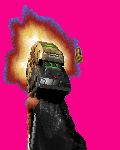
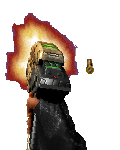
Gr12 FSE Jan 14 Both pistol and shotgun working. Abandoing reloading idea. Swapping gun works. Need to add some camera shake to the gun and the footsteps. Need to start makign the main game loop and polishing enemies. Could implement similar logic for guns by overlaoding the draw for each enemy to m

diff --git a/src/Shotgun.java b/src/Shotgun.java
@@ -1,0 +1,41 @@
+import javax.imageio.ImageIO;
+import java.awt.*;
+import java.awt.image.BufferedImage;
+import java.io.File;
+import java.io.IOException;
+
+public class Shotgun extends Gun{
+    private BufferedImage[] fireFrame = {
+            ImageIO.read(new File(MainGame.imgDir +"Player/Firing Shotgun/firingShotgun00.png")),
+            ImageIO.read(new File(MainGame.imgDir +"Player/Firing Shotgun/firingShotgun01.png")),
+            ImageIO.read(new File(MainGame.imgDir +"Player/Firing Shotgun/firingShotgun02.png")),
+            ImageIO.read(new File(MainGame.imgDir +"Player/Firing Shotgun/firingShotgun03.png")),
+            ImageIO.read(new File(MainGame.imgDir +"Player/Firing Shotgun/firingShotgun04.png")),
+            ImageIO.read(new File(MainGame.imgDir +"Player/Firing Shotgun/firingShotgun05.png")),
+            ImageIO.read(new File(MainGame.imgDir +"Player/Firing Shotgun/firingShotgun06.png")),
+            ImageIO.read(new File(MainGame.imgDir +"Player/Firing Shotgun/firingShotgun07.png")),
+            ImageIO.read(new File(MainGame.imgDir +"Player/Firing Shotgun/firingShotgun08.png")),
+            ImageIO.read(new File(MainGame.imgDir +"Player/Firing Shotgun/firingShotgun09.png")),
+            ImageIO.read(new File(MainGame.imgDir +"Player/Firing Shotgun/firingShotgun10.png")),
+            ImageIO.read(new File(MainGame.imgDir +"Player/Firing Shotgun/firingShotgun11.png")),
+            ImageIO.read(new File(MainGame.imgDir +"Player/Firing Shotgun/firingShotgun12.png")),
+            ImageIO.read(new File(MainGame.imgDir +"Player/Firing Shotgun/firingShotgun13.png")),
+            ImageIO.read(new File(MainGame.imgDir +"Player/Firing Shotgun/firingShotgun14.png")),
+    };
+    private BufferedImage[] reloadFrame;
+    public Shotgun(double frameRate, int aoe, int range) throws IOException {
+        super(frameRate, aoe, range);
+        setFireFrame(fireFrame);
+    }
+    @Override
+    public void drawGun(Graphics g) {
+        super.drawGun(g);
+        int scale = 3;
+        int scaledWidth = getCurrentGunImage().getWidth() * scale;
+        int scaledHeight = getCurrentGunImage().getHeight() * scale;
+        int gunX = MainGame.WID/2 - scaledWidth / 2 + 70;
+        int gunY = MainGame.HGT/2 - scaledHeight / 2 + 58;
+        Graphics2D g2d = (Graphics2D) g;
+        g2d.drawImage(getCurrentGunImage(), gunX, gunY, scaledWidth, scaledHeight, null);
+    }
+}

diff --git a/src/Player.java b/src/Player.java
@@ -1,5 +1,6 @@
 import java.awt.*;
 import java.awt.event.KeyEvent;
+import java.io.IOException;
 import java.util.ArrayList;
 
 
@@ -11,17 +12,28 @@ public class Player extends ParentEntity {
     private double angle = 0;
     private double dX;
     private double dY;
-    private final double speed = 15;
-    private final int gunFrame = 0;
-
-    public Player(int x, int y) {
+    private final double speed = 10;
+    private Gun curGun;
+    public Player(int x, int y) throws IOException {
         super(x, y, 10, 10);
         dX = x;
         dY = y;
+//        curGun = new Pistol(0.2,5, 600);
+        curGun = new Shotgun(0.3,20, 400);
     }
-
+    public void chooseGun(boolean[] keys){
+        try {
+            if (keys[KeyEvent.VK_Z])
+                curGun = new Pistol(0.2, 5, 600);
+            if (keys[KeyEvent.VK_X])
+                curGun = new Shotgun(0.3, 20, 400);
+        }
+        catch (IOException e) {
+            throw new RuntimeException(e);
+        }
+    }
     public void movePlayer(boolean[] keys, Dungeon dun) {
-        double turnAngle = 0.2;
+        double turnAngle = 0.1;
         if (keys[KeyEvent.VK_A])
             angle -= turnAngle;
         if (keys[KeyEvent.VK_D])
@@ -43,15 +55,17 @@ public class Player extends ParentEntity {
 
     public void shootEnemies(boolean[] keys, Dungeon dun) {
         if (!keys[KeyEvent.VK_SPACE]) return;
+        if (curGun.getGunFrame() != 0) return;
+        curGun.setGunFrame(1);
         for( BaseEnemy enemy: dun.geteArr()) {
-            if (Math.abs(enemy.isPlayerLookingAt(this, 10)) >= 1) continue;
-            if (dist(x, y, enemy.x, enemy.y) >= 600) continue;
+            if (Math.abs(enemy.isPlayerLookingAt(this, curGun.getAoe())) >= 1) continue;
+            if (dist(x, y, enemy.x, enemy.y) >= curGun.getRange()) continue;
             enemy.setAlive(false);
         }
 
     }
-    public void pistolFire(Graphics g){
-
+    public void shootAnimation(Graphics g){
+        curGun.drawGun(g);
     }
 
     public void drawPlayer(Graphics g) { //2d

diff --git a/src/Gun.java b/src/Gun.java
@@ -1,0 +1,58 @@
+import java.awt.*;
+import java.awt.image.BufferedImage;
+
+public class Gun {
+    private BufferedImage[] fireFrame;
+    BufferedImage[] reloadFrame;
+    private double gunFrame = 0;
+    private final double frameRate;
+    private final int aoe;
+    private final int range;
+    private BufferedImage currentGunImage;  // Declare it as a field
+
+    public Gun( double frameRate, int aoe, int range) {
+        this.frameRate = frameRate;
+        this.aoe = aoe;
+        this.range = range;
+    }
+
+    public void drawGun(Graphics g){
+        currentGunImage = fireFrame[(int) gunFrame];
+        if(gunFrame > 0)
+            gunFrame += frameRate;
+        if(gunFrame >= fireFrame.length)
+            gunFrame = 0;
+    }
+
+    public double getGunFrame() {
+        return gunFrame;
+    }
+
+    public int getAoe() {
+        return aoe;
+    }
+
+    public int getRange() {
+        return range;
+    }
+
+    public BufferedImage[] getFireFrame() {
+        return fireFrame;
+    }
+
+    public BufferedImage getCurrentGunImage() {
+        return currentGunImage;
+    }
+
+    public void setFireFrame(BufferedImage[] fireFrame) {
+        this.fireFrame = fireFrame;
+    }
+
+    public double getframeRate() {
+        return frameRate;
+    }
+
+    public void setGunFrame(double gunFrame) {
+        this.gunFrame = gunFrame;
+    }
+}

diff --git a/src/Pistol.java b/src/Pistol.java
@@ -1,0 +1,31 @@
+import javax.imageio.ImageIO;
+import java.awt.*;
+import java.awt.image.BufferedImage;
+import java.io.File;
+import java.io.IOException;
+
+public class Pistol extends Gun{
+    private BufferedImage[] fireFrame = {
+            ImageIO.read(new File(MainGame.imgDir +"Player/Firing Pistol/firingPistol0.png")),
+            ImageIO.read(new File(MainGame.imgDir +"Player/Firing Pistol/firingPistol1.png")),
+            ImageIO.read(new File(MainGame.imgDir +"Player/Firing Pistol/firingPistol2.png")),
+            ImageIO.read(new File(MainGame.imgDir +"Player/Firing Pistol/firingPistol3.png")),
+    };
+    private BufferedImage[] reloadFrame;
+    public Pistol(double frameRate, int aoe, int range) throws IOException {
+        super(frameRate, aoe, range);
+        setFireFrame(fireFrame);
+    }
+
+    @Override
+    public void drawGun(Graphics g) {
+        super.drawGun(g);
+        int scale = 3;
+        int scaledWidth = getCurrentGunImage().getWidth() * scale;
+        int scaledHeight = getCurrentGunImage().getHeight() * scale;
+        int gunX = MainGame.WID/2 - scaledWidth / 2 + 70;
+        int gunY = MainGame.HGT/2 - scaledHeight / 2 + 58;
+        Graphics2D g2d = (Graphics2D) g;
+        g2d.drawImage(getCurrentGunImage(), gunX, gunY, scaledWidth, scaledHeight, null);
+    }
+}

diff --git a/src/MainGame.java b/src/MainGame.java
@@ -8,7 +8,16 @@ import java.util.ArrayList;
 public class MainGame {
     protected static final int WID = 64*16;
     protected static final int HGT= 64*16;
-    private static final Player player = new Player(WID/2,HGT/2);
+    private static final Player player;
+
+    static {
+        try {
+            player = new Player(WID/2,HGT/2);
+        } catch (IOException e) {
+            throw new RuntimeException(e);
+        }
+    }
+
     private static Dungeon dun = new Dungeon(player);
     protected static final String imgDir = "resources/images/";
 

diff --git a/src/Game3D.java b/src/Game3D.java
@@ -39,6 +39,7 @@ public class Game3D extends BaseFrame {
         super.draw(g);
         rayCast.drawRays3d(g2d);
         Arrays.stream(dun.geteArr()).forEach(e -> e.drawBaseEnemy(g, player, HGT, WID, rayCast));
+        player.shootAnimation(g);
     }
 
     @Override
@@ -46,6 +47,7 @@ public class Game3D extends BaseFrame {
         super.move();
         player.movePlayer(keys, dun);
         player.shootEnemies(keys,dun);
+        player.chooseGun(keys);
         Arrays.stream(dun.geteArr()).forEach(e -> e.moveEnemy(player, dun));
     }
 
